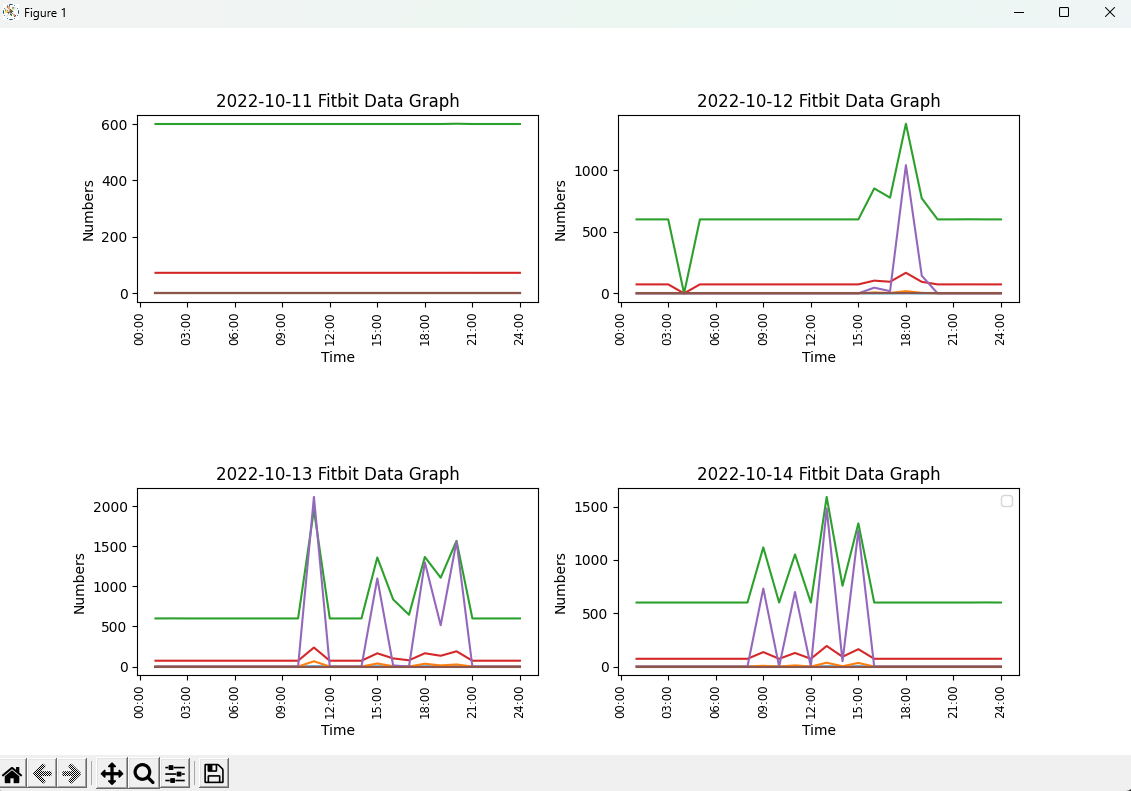
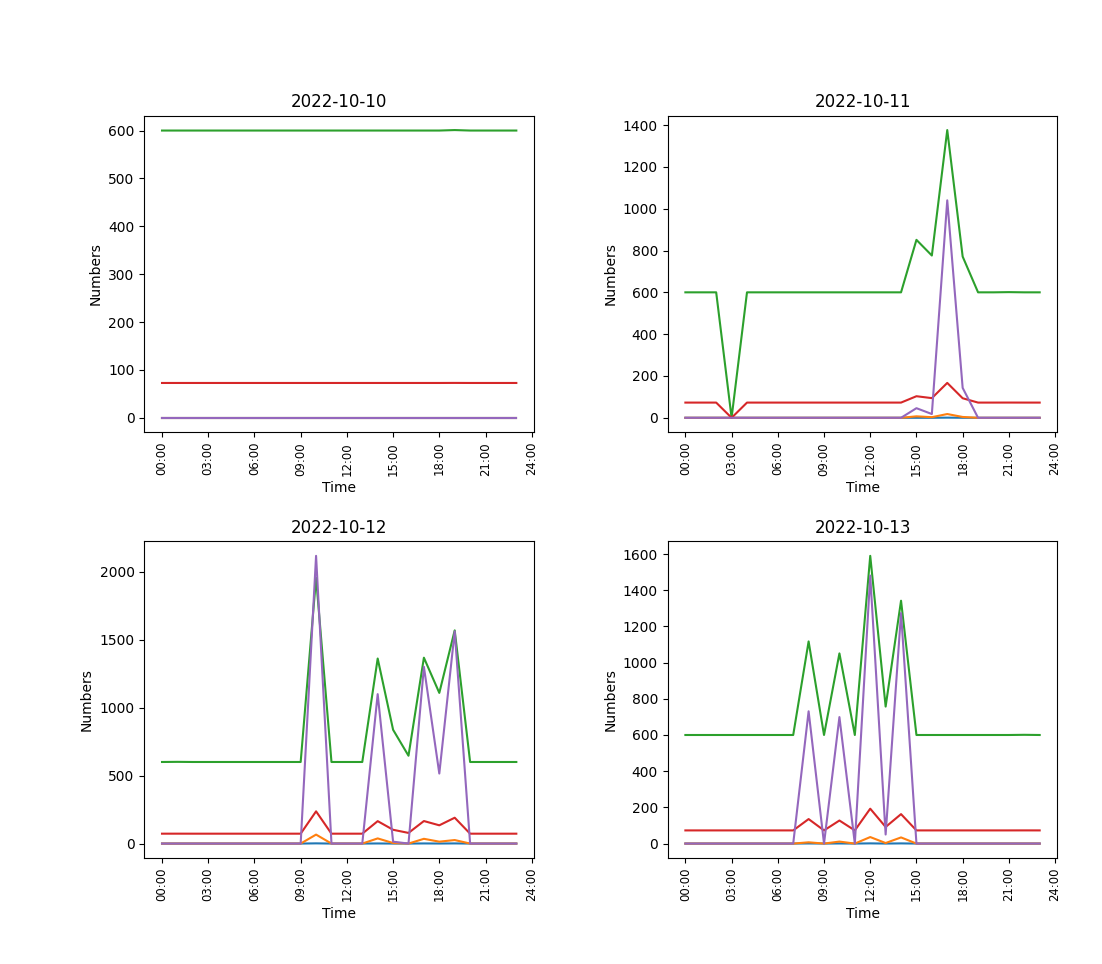
refactor: specific props refactoring

diff --git a/00 프로젝트/02 Health Data Project/analysis.py b/00 프로젝트/02 Health Data Project/analysis.py
@@ -62,7 +62,7 @@ def summarize(data):
     
 def get_daily_result(data):
     daily_result = pd.DataFrame(data.groupby(['dates']).sum(), columns=['distance', 'level','mets', 'calories', 'steps'])
-    print(daily_result.head(200))
+    print(daily_result)
     return daily_result
 
 def visualize_daily_data(data):
@@ -71,11 +71,11 @@ def visualize_daily_data(data):
     plt.show()
     
 def get_group_by_hour(data):
-    return data.groupby(pd.Grouper(freq='60Min', base=0, label='right')).sum()
+    return data.groupby(pd.Grouper(freq='60Min', base=0, label='left')).sum()
 
 def result_by_time_series(data):
     # print(data.groupby(['dates']).count())
-    mask = data.loc['2022-10-11':'2022-10-13']
+    # mask = data.loc['2022-10-11':'2022-10-13']
     
     arr = [data.loc['2022-10-10'], data.loc['2022-10-11'], data.loc['2022-10-12'], data.loc['2022-10-13']]
     result_arr = []
@@ -85,7 +85,7 @@ def result_by_time_series(data):
     visualize_for_time_series(result_arr)
     
 def visualize_for_time_series(data):
-    fig = plt.figure(figsize=(10,8))    
+    fig = plt.figure()    
 
     for i in range(len(data)):
         ax = fig.add_subplot(2,2,i+1)
@@ -99,7 +99,7 @@ def visualize_for_time_series(data):
         '''
         
         props={
-            'title':'2022-10-1' + str(i+1) + " Fitbit Data Graph",
+            'title':'2022-10-1' + str(i),
             'xlabel':'Time',
             'ylabel':'Numbers'
         }
@@ -107,54 +107,52 @@ def visualize_for_time_series(data):
         ax.plot(day_data)
         ax.set_xticklabels(['00:00', '03:00', '06:00', '09:00', '12:00', '15:00', '18:00', '21:00', '24:00'], rotation=90, fontsize='small')
         ax.set(**props)
-        plt.legend(loc='best')
         plt.savefig('00 프로젝트/02 Health Data Project/data/image/fitbit_graph_2022-10-1{0}.png'.format(i), dpi=400)
-        
-    plt.subplots_adjust(hspace=2)
+    
+    plt.legend(loc='best')
+    plt.subplots_adjust(wspace=1, hspace=4)
     plt.show()
 
 def visualize(data):
     fig = plt.figure()
+    
     calories_ax = fig.add_subplot(2,2,1)
     steps_ax = fig.add_subplot(2,2,2)
     distance_ax = fig.add_subplot(2,2,3)
-    hist_ax = fig.add_subplot(2,2,4)
-    
-   
+    mets_ax = fig.add_subplot(2,2,4)
+
     calories_ax.plot(data.index, data['calories'],'r--', label='calories')
     steps_ax.plot(data.index, data['steps'], 'g--', label='steps')
     distance_ax.plot(data.index, data['distance'], 'b--', label='distance')
-    # distance_ax.plot(pd.to_timedelta(data['time']), data['distance'], 'b--', label='distance')
-
-    '''
-    plt.plot(pd.to_timedelta(data['time']), data['calories'],'r--', label='calories')
-    plt.plot(pd.to_timedelta(data['time']), data['steps'], 'g--', label='steps')
-    plt.plot(pd.to_timedelta(data['time']), data['distance'], 'b--', label='distance')
-    ''' 
+    mets_ax.plot(data.index, data['mets'], 'k--', label='distance')
 
     calories_props={
-        'title': 'Fitbit Time Series Graph',
         'xlabel': 'Date',
         'xticks':['2022-10-10', '2022-10-20', '2022-10-30', '2022-11-10', '2022-11-20'],
         'ylabel': 'calories'
     }
     steps_props={
-        'title': 'Fitbit Time Series Graph',
-        'xlabel': 'Time',
+        'xlabel': 'Date',
         'xticks':['2022-10-10', '2022-10-20', '2022-10-30', '2022-11-10', '2022-11-20'],
         'ylabel': 'steps'
     }
     distance_props={
-        'title': 'Fitbit Time Series Graph',
-        'xlabel': 'Time',
+        'xlabel': 'Date',
         'xticks':['2022-10-10', '2022-10-20', '2022-10-30', '2022-11-10', '2022-11-20'],
         'ylabel': 'distance'
+    }
+    mets_props={
+        'xlabel': 'Date',
+        'xticks':['2022-10-10', '2022-10-20', '2022-10-30', '2022-11-10', '2022-11-20'],
+        'ylabel': 'mets'
     }
     
     calories_ax.set(**calories_props)
     steps_ax.set(**steps_props)
     distance_ax.set(**distance_props)
+    mets_ax.set(**mets_props)
     
+    plt.suptitle('Fitbit Data Graph')
     plt.show()
      
 def pairplot(data):
@@ -165,11 +163,11 @@ def origin_data():
     filepath = '00 프로젝트/02 Health Data Project/data/fitbit_datasets/1005-1122.csv'
     data = get_data(filepath)
     # summarize(data)
-    get_daily_result(data)
+    # get_daily_result(data)
     # visualize_daily_data(data)
     # result_by_time_series(data)
-    # visualize(data)
-    # pairplot(data)
+    visualize(data)
+    pairplot(data)
 
 
 def main():
